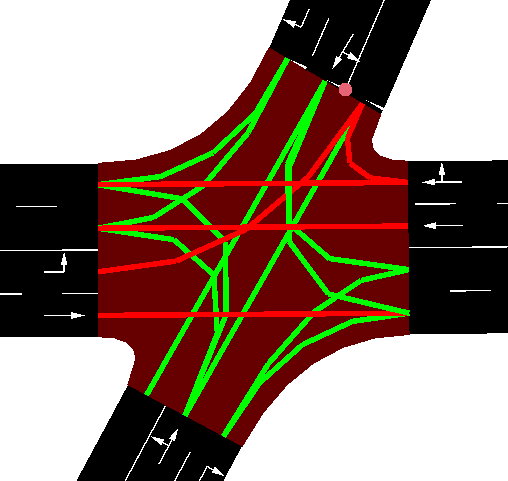
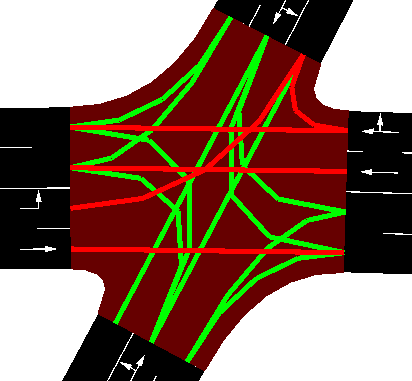
red pedestrian phase hotfix + moving directions

diff --git a/vkr/my_folder/tex/linked-md-four-in-one.tex b/vkr/my_folder/tex/linked-md-four-in-one.tex
@@ -1,0 +1,28 @@
+\begin{figure}[ht]
+	\adjustbox{minipage=1.3em,valign=t}{\subcaption{}\label{fig:linked-phase-a}}%
+	\begin{subfigure}[t]{\dimexpr.5\linewidth-1.3em\relax}
+		\centering
+		\includegraphics[width=.70\linewidth,valign=t]{my_folder/images/linked-0.png}
+	\end{subfigure}
+\hfill %выровнять по ширине
+	\adjustbox{minipage=1.3em,valign=t}{\subcaption{}\label{fig:spbpu_sc-b}}%
+	\begin{subfigure}[t]{\dimexpr.5\linewidth-1.3em\relax}
+		\centering
+		\includegraphics[width=.70\linewidth,valign=t]{my_folder/images/linked-1.png}
+	\end{subfigure}
+\\[20pt]
+	\adjustbox{minipage=1.3em,valign=t}{\subcaption{}\label{fig:spbpu_sc-c}}%
+\begin{subfigure}[t]{\dimexpr.5\linewidth-1.3em\relax}
+	\centering
+	\includegraphics[width=.70\linewidth,valign=t]{my_folder/images/linked-2.png}
+\end{subfigure}%
+\hfill %выровнять по ширине
+\adjustbox{minipage=1.3em,valign=t}{\subcaption{}\label{fig:spbpu_sc-d}}%
+\begin{subfigure}[t]{\dimexpr.5\linewidth-1.3em\relax}
+	\centering
+	\includegraphics[width=.70\linewidth,valign=t]{my_folder/images/linked-red.png}
+\end{subfigure}
+\captionsetup{justification=centering} %центрировать
+\caption{Направлениия движения СО 1} 
+\label{fig:linked-phases}
+\end{figure}

diff --git a/vkr/my_folder/tex/separate-md-four-in-one.tex b/vkr/my_folder/tex/separate-md-four-in-one.tex
@@ -1,0 +1,28 @@
+\begin{figure}[ht]
+	\adjustbox{minipage=1.3em,valign=t}{\subcaption{}\label{fig:linked-phase-a}}%
+	\begin{subfigure}[t]{\dimexpr.5\linewidth-1.3em\relax}
+		\centering
+		\includegraphics[width=.80\linewidth,valign=t]{my_folder/images/separate-0.png}
+	\end{subfigure}
+\hfill %выровнять по ширине
+	\adjustbox{minipage=1.3em,valign=t}{\subcaption{}\label{fig:spbpu_sc-b}}%
+	\begin{subfigure}[t]{\dimexpr.5\linewidth-1.3em\relax}
+		\centering
+		\includegraphics[width=.80\linewidth,valign=t]{my_folder/images/separate-1.png}
+	\end{subfigure}
+\\[20pt]
+	\adjustbox{minipage=1.3em,valign=t}{\subcaption{}\label{fig:spbpu_sc-c}}%
+\begin{subfigure}[t]{\dimexpr.5\linewidth-1.3em\relax}
+	\centering
+	\includegraphics[width=.80\linewidth,valign=t]{my_folder/images/separate-red.png}
+\end{subfigure}%
+\hfill %выровнять по ширине
+\adjustbox{minipage=1.3em,valign=t}{\subcaption{}\label{fig:spbpu_sc-d}}%
+\begin{subfigure}[t]{\dimexpr.5\linewidth-1.3em\relax}
+	\centering
+	\includegraphics[width=.80\linewidth,valign=t]{my_folder/images/separate-2.png}
+\end{subfigure}
+\captionsetup{justification=centering} %центрировать
+\caption{Направлениия движения СО 2} 
+\label{fig:linked-phases}
+\end{figure}

diff --git a/vkr/my_folder/tex/separate-states-three-in-one.tex b/vkr/my_folder/tex/separate-states-three-in-one.tex
@@ -1,0 +1,26 @@
+
+\begin{figure}[!htbp]
+	\adjustbox{minipage=1.3em,valign=t}{\subcaption{}\label{fig:spbpu_whitehall-a}}%
+	\begin{subfigure}[t]{\dimexpr.3\linewidth-1.3em\relax}
+		\centering
+		\includegraphics[width=.60\linewidth,valign=t]{my_folder/images//separate-state-0.png}
+	\end{subfigure}
+	\hfill %выровнять
+	\adjustbox{minipage=1.3em,valign=t}{\subcaption{}\label{fig:spbpu_whitehall-b}}%
+	\begin{subfigure}[t]{\dimexpr.3\linewidth-1.3em\relax}
+		\centering
+		\includegraphics[width=.60\linewidth,valign=t]{my_folder/images//separate-state-1.png}
+	\end{subfigure}
+	\hfill %выровнять
+		\adjustbox{minipage=1.3em,valign=t}{\subcaption{}\label{fig:spbpu_whitehall-c}}%
+	\begin{subfigure}[t]{\dimexpr.3\linewidth-1.3em\relax}
+		\centering
+		\includegraphics[width=.60\linewidth,valign=t]{my_folder/images//separate-state-2.png}
+	\end{subfigure}%
+\captionsetup{justification=centering} %центрировать
+\caption{Пример смены состояний {\itshape a} $\rightarrow$ {\itshape b} $\rightarrow$ {\itshape c}}
+\end{figure}
+
+
+
+

diff --git a/vkr/my_folder/chapter4.tex b/vkr/my_folder/chapter4.tex
@@ -4,20 +4,22 @@
 \section{Анализ входных данных} \label{ch4:sec1}
 \subsection{Карта исследуемого участка дороги}
 \input{my_folder/tex/radiodetectors-map}
+На \firef{fig:radiodetectors-map} номерами 1 и 2 обозначены светофорные объекты, регулирующие движение на представленных перекрестках.
 \newpage
 \input{my_folder/tex/sumo-gui-roadmap}
 
-\begin{figure}[!htbp]
-	\centering
-	\includegraphics[height=0.2\textheight,valign=t]{my_folder/images//detectors-setting.png}
-	\captionsetup{justification=centering} %центрировать
-	\caption{Расстановка детекторов на карте} \label{fig:detectors-setting}
-\end{figure}
-Место установки детекторов на \firef{fig:detectors-setting}
-\subsection{Состояния СО в соответствии с паспортом}
-
-
+\input{my_folder/tex/detectors-setting}
+\subsection{Определение состояний}
+Информация о направлениях движения, регулируемых светофорными объектами 1 и 2, представлена в паспортах СО соответственно.
+\input{my_folder/tex/linked-md-four-in-one.tex}
+\clearpage
+\input{my_folder/tex/separate-md-four-in-one.tex}
+\clearpage
 %\FloatBarrier % заставить рисунки и другие подвижные (float) элементы остановиться
+\clearpage
+\newpage
+
+\subsection{Сводка данных о трафике}
 
 \section{Выводы} \label{ch4:conclusion}
 

diff --git a/utils.py b/utils.py
@@ -56,12 +56,14 @@ def create_new_logic(net_input, additional_output, solution):
 
     for tl_logic in tl_logics:
         for phase in tl_logic.findall('.//phase'):
-            if "y" not in phase.attrib["state"]: #if phase is "optimizable"
+            if ("y" not in phase.attrib["state"]) and not(all(char == "r" for char in phase.attrib["state"])): #if phase is "optimizable"
                 duration = int(solution[0])
                 solution = np.delete(solution, 0)
                 phase.set('duration', str(duration))
-            else: #yellow constant 3
+            elif "y" in phase.attrib["state"]: #yellow constant 3 s
                 phase.set('duration', str(3))
+            else: #pedestrian phase, set const 24 s according to a traffic light docs
+                phase.set('duration', str(24))
         tl_logic.set('programID', 'generated')
 
     new_root.extend(tl_logics)
@@ -74,11 +76,11 @@ def get_total_waiting_time(xml_file):
     root = tree.getroot()
 
     vehicle_trip_statistics = root.find(".//vehicleTripStatistics") 
-    performance = root.find(".//performance")
+    #performance = root.find(".//performance")
 
     waitingTime = vehicle_trip_statistics.get('waitingTime')
-    end = performance.get('end')
-    return float(waitingTime)*float(end) # waitingTime
+    #end = performance.get('end')
+    return float(waitingTime)#*float(end) # waitingTime
 
 def generate_id():
     unique_id = str(uuid.uuid4())

diff --git a/vkr/my_folder/chapter1.tex b/vkr/my_folder/chapter1.tex
@@ -3,7 +3,7 @@
 % не рекомендуется использовать отдельную section <<введение>> после лета 2020 года
 %\section{Введение. Сложносоставное название первого параграфа первой главы для~демонстрации переноса слов в содержании} \label{ch1:intro}
 
-В данной главе произведён анализ профильной литературы. Предложены постановка и формализация задачи целочисленной оптимизации с ограничениями в контексте управления режимом работы светофора.
+В данной главе произведён анализ существующего решения. Предложены постановка и формализация задачи целочисленной оптимизации с ограничениями в контексте управления режимом работы светофора.
 \section{Анализ существующих решений}
 В качестве опорной идеи подхода к решению проблемы была взята статья \cite{Chen2007AlgorithmsFT}.\\
 Авторы предлагают свой вариант модели дорожной сети, основанный на использовании графа $G(V, E)$, а также представляют свой вариант модели дорожного трафика, минимизируя среднее время ожидания ТС при помощи эвристических алгоритмов.\\
@@ -26,14 +26,14 @@
 \newpage
 \section{Задание дорожной сети}
 Участок транспортной сети опишем в виде ориентированного графа $\Gamma(V,E)$, где $V$ - множество вершин, $E$ - множество дуг сети.\\
-Из $V$ выделим подможества $S\subset V$, $D\subset V$ и дадим определения:
+Из $V$ выделим подможества $S\subseteq V$, $D\subseteq V$ и дадим определения:
 \begin{itemize}
 	\item \textit{Источником} называется элемент множества $S$, который порождает транспортный поток.
 	\item \textit{Стоком} называется элемент множества $D$, который поглощает транспортный поток.
 \end{itemize}
 
 Каждая дуга соответствует реальному участку автодороги без перекрёстков\\
-(дорожной полосе). Каждая вершина представляет собой либо перекрёсток, регулируемый светофорным объектом, либо является источником, либо стоком.
+(дорожной полосе). Каждая вершина представляет собой либо перекрёсток, регулируемый светофорным объектом, либо является источником, либо стоком либо источником и стоком одновременно.
 \begin{m-definition}
 	Множество $W$ всех потокообразующих пар представим в виде декартова произведения 
 	\begin{equation}
@@ -79,7 +79,7 @@
 	Под \textit{состоянием} понимается совокупность влияний сигнала $l_i$ на дуги $e_j, \  j \in \{1,\ldots, N\}$ в фазе $t_{lk}$, $t_{\min} \leq t_{lk} \leq t_{\max}$, \ $[t_{lk}] = \text{с}$.\\
 \end{m-definition}
 Предлагается применить алгоритмы оптимизации к временам действия фаз $t_{lk}$.\\
-\input{my_folder/tex/fig-phases-three-in-one} 
+\input{my_folder/tex/separate-states-three-in-one} 
 \section{Постановка задачи оптимизации}
 Пусть $X = \biggr[t_{lk}\biggl]_{\begin{aligned}
 		\scriptstyle l & \scriptstyle \in 1,\ldots, N,\\

diff --git a/vkr/my_folder/tex/detectors-setting.tex b/vkr/my_folder/tex/detectors-setting.tex
@@ -1,0 +1,7 @@
+\begin{figure}[!htbp]
+    \centering
+    \includegraphics[height=0.2\textheight,valign=t]{my_folder/images//detectors-setting.png}
+    
+\captionsetup{justification=centering} %центрировать
+\caption{Места расположения детекторов на карте}\label{fig:detectors-setting}
+\end{figure}

diff --git a/cmaes.py b/cmaes.py
@@ -21,7 +21,7 @@ def create_bounds(xml_file):
 
     for tl_logic in root.findall(".//tlLogic"):
         for phase in tl_logic.findall("phase"):
-            if "y" not in phase.attrib["state"]:
+            if ("y" not in phase.attrib["state"]) and not(all(char == "r" for char in phase.attrib["state"])):
                 lower_bounds.extend([20])
                 upper_bounds.extend([70])
 
@@ -74,7 +74,7 @@ def main(argv):
         sigma = 5
         #----------------------
         es = cma.CMAEvolutionStrategy(x0, sigma, opts)
-        iter_count = 200
+        iter_count = 125
         ff_partial = partial(fitness_func,
                              net_file=utils.net_dict.get(simulation_name),
                              folder_name=simulation_name,

diff --git a/vkr/my_folder/tex/radiodetectors-map.tex b/vkr/my_folder/tex/radiodetectors-map.tex
@@ -1,7 +1,7 @@
 \begin{figure}[!htbp]
 		\centering
-		\includegraphics[height=0.5\textheight,valign=t]{my_folder/images//radiodetectors.JPG}
+		\includegraphics[height=0.5\textheight,valign=t]{my_folder/images//radiodetectors.png}
 		
 \captionsetup{justification=centering} %центрировать
-	\caption{Участок дорожной карты с обозначением номеров радиодетекторов} 
+	\caption{Участок дорожной карты с обозначением номеров радиодетекторов}\label{fig:radiodetectors-map}
 \end{figure}

diff --git a/vkr/my_folder/tex/sumo-gui-roadmap.tex b/vkr/my_folder/tex/sumo-gui-roadmap.tex
@@ -3,5 +3,5 @@
 		\includegraphics[height=0.3\textheight,valign=t]{my_folder/images//sumo-gui-roadmap.png}
 		
 \captionsetup{justification=centering} %центрировать
-	\caption{Модель участка дороги на основе (...)} 
+	\caption{Модель участка дороги на основе \firef{fig:radiodetectors-map}} 
 \end{figure}